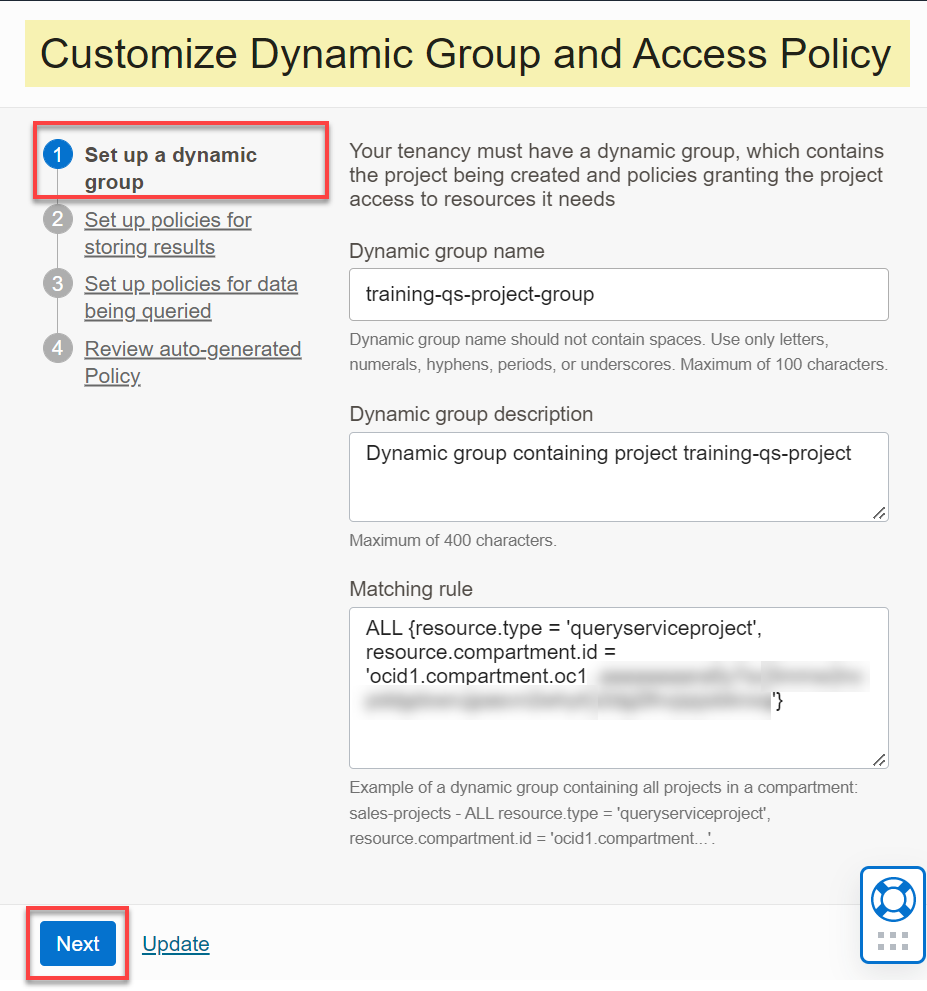
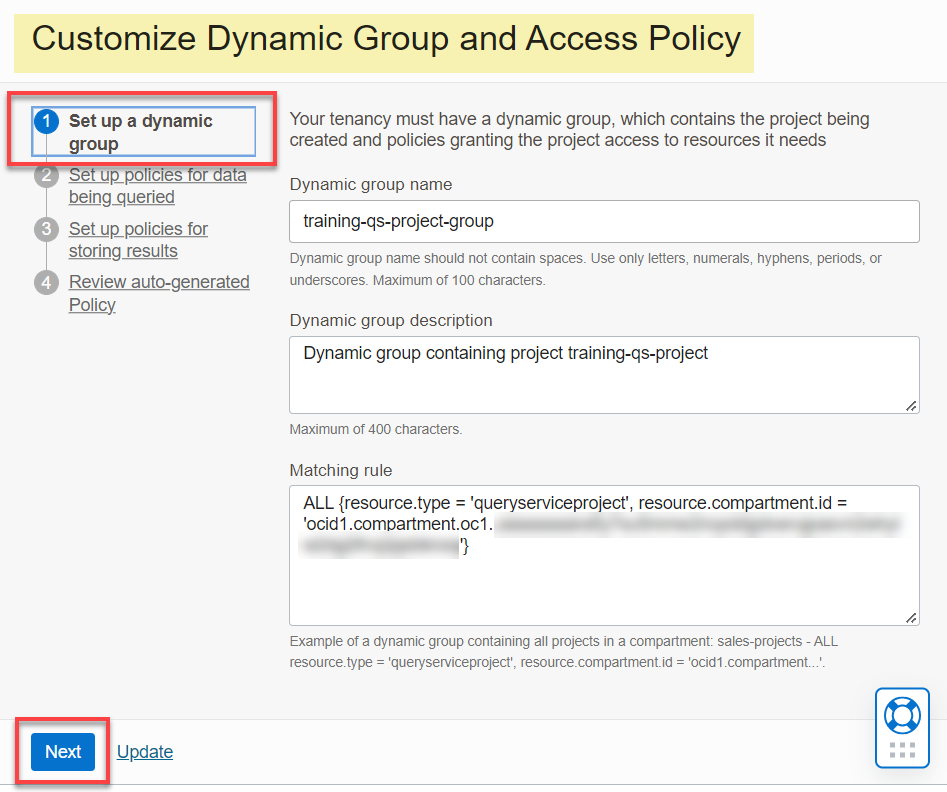
wizard pages re-ordered in UI

diff --git a/oci/sprint-create-qs-project/sprint-create-qs-project.md b/oci/sprint-create-qs-project/sprint-create-qs-project.md
@@ -38,7 +38,7 @@ A Query Service project is a collection of tables, worksheets, and queries relat
 
 6. In the **Connect Data Catalog** section, you have two options:
 
-    * **Option 1:** The **Associate Data Catalog Instance** checkbox is selected by default. This enables you to select a Data Catalog instance in your compartment that you want to associate with your new Query Service project.
+    * **Option 1:** The **Associate Data Catalog Instance** checkbox is de-selected by default. You can select this checkbox to select a Data Catalog instance in your compartment that you want to associate with your new Query Service project.
 
           ![The Associate Data Catalog Instance checkbox is selected. The DataLake Data Catalog instance in the selected compartment is selected.](./images/associate-dcat-default.png " ")
 
@@ -46,7 +46,7 @@ A Query Service project is a collection of tables, worksheets, and queries relat
 
           If a Data Catalog instance is selected, Query Service is automatically synchronized with the Data Catalog instance. It synchronizes (links) the metadata in your Data Catalog instance and creates schemas that correspond to buckets in your harvested data assets. Query Service also creates the external tables in those schemas that correspond to the logical data entities that were harvested in the Data Catalog instance.
 
-    * **Option 2:** If you don't want to associate an existing Data Catalog instance with this new project, keep the **Associate Data Catalog Instance** checkbox unchecked. For this project, uncheck this checkbox.
+    * **Option 2:** If you don't want to associate an existing Data Catalog instance with this new project, keep the **Associate Data Catalog Instance** checkbox unchecked. For this project, we will keep it unchecked.
 
         ![The Associate Data Catalog Instance checkbox is unchecked.](./images/uncheck-associate-dcat-box.png " ")
 
@@ -72,7 +72,7 @@ A Query Service project is a collection of tables, worksheets, and queries relat
 
     ![The newly created Query Service project is displayed with an Active state.](./images/new-qs-project.png " ")
 
-## Create a Dynamic Group and an Access Policy
+## Create a Customized Dynamic Group and an Access Policy
 
 As mentioned earlier, when you use the **Create a Dynamic Group and an Access Policy** section, you have two options.
 
@@ -100,34 +100,34 @@ If you decide not to proceed with creating your project and click **Cancel** ins
 
 If you want more control over the how the dynamic group and the access policy will be created, click the **Customize group and access policy** link to display the **Customize Project Group and Access Policy** wizard. The four wizard's steps are described next.
 
-* **Set up a dynamic group**: Use this wizard step to customize the dynamic group policy's name, description, the matching rule, and then click **Next**.
+* **Step 1: Set up a dynamic group**: Use this step to customize the dynamic group policy's name, description, the matching rule, and then click **Next**.
 
     ![The first page of the wizard.](./images/wizard-page-1.png " ")
 
-* **Set up policies for storing results:** _This is an optional step if you don't want to save the results of your queries_. Select the compartments and buckets where you want to store your queries' results, and then click **Next**.
-
+* **Step 2: Set up policies for data being queried**: _This is an optional step if you are only accessing data in public buckets_. Select the compartments and buckets that contain the data that you want to query, and then click **Next**.
     * In the **Compartments** tab, select the parent compartment from the drop-down list to display its sub-compartments that contain the buckets where you would like to store your query results. To select a compartment, click **Select** next the compartment's name. The selected compartment is displayed in the **Selected compartments** section.
 
-        ![The compartment tab in the second page of the wizard.](./images/page-2-compartment-tab.png " ")
+        ![The compartment tab in the third page of the wizard.](./images/page-2-new-compartment-tab.png " ")
 
     * Click the **Buckets** tab to select the bucket(s) in the compartments that you selected in the **Compartments** tab. These are the buckets where you'd like to save the results of your queries. To select a bucket, click **Select** next the bucket's name. The selected bucket is displayed in the **Selected buckets** section.
 
-        ![The bucket tabs of the second page of the wizard.](./images/wizard-page-2-buckets-tab.png " ")
+        ![The buckets tab in the second page of the wizard.](./images/wizard-page-2-new-buckets-tab.png " ")
 
-* **Set up policies for data being queried:** _This is an optional step if you are only accessing data in public buckets_. Select the compartments and buckets that contain the data that you want to query, and then click **Next**.
+* **Step 3: Set up policies for storing results**: _This is an optional step if you don't want to save the results of your queries_. Select the compartments and buckets where you want to store your queries' results, and then click **Next**.
+
     * In the **Compartments** tab, select the parent compartment from the drop-down list to display its sub-compartments that contain the buckets where you would like to store your query results. To select a compartment, click **Select** next the compartment's name. The selected compartment is displayed in the **Selected compartments** section.
 
-        ![The compartment tab in the third page of the wizard.](./images/page-3-compartment-tab.png " ")
+        ![The compartment tab in the second page of the wizard.](./images/page-3-compartment-tab.png " ")
 
     * Click the **Buckets** tab to select the bucket(s) in the compartments that you selected in the **Compartments** tab. These are the buckets where you'd like to save the results of your queries. To select a bucket, click **Select** next the bucket's name. The selected bucket is displayed in the **Selected buckets** section.
 
-        ![The buckets tab in the second page of the wizard.](./images/wizard-page-3-buckets-tab.png " ")
+        ![The bucket tabs of the second page of the wizard.](./images/wizard-page-3-buckets-tab.png " ")
 
-* **Review auto-generated Policy:** Review the details of the auto-generated policy statements. Click **Previous** to return to the previous pages in the wizard to make any changes. When done, click **Create Policy**.
+* **Step 4: Review auto-generated Policy**: Review the details of the auto-generated policy statements. Click **Previous** to return to the previous pages in the wizard to make any changes. When done, click **Create Policy**.
 
     ![The fourth page of the wizard.](./images/wizard-page-4.png " ")
 
-    A message is displayed in the **Create Dynamic Group and Access Policies** section indicating that the dynamic group and the policy are successfully created. You can click the links associated with the dynamic group or the policy to display their details.
+    A message is displayed in the **Create Dynamic Group and Access Policies** section indicating that the dynamic group and the policy are successfully created. You can click the links associated with the dynamic group or the policy to display their details. The **Create Query Service project** panel is re-displayed. Usually, the next step would be to create the project; however, in this sprint, you already did that in the earlier section.
 
 ## Work with Query Service Projects
 
